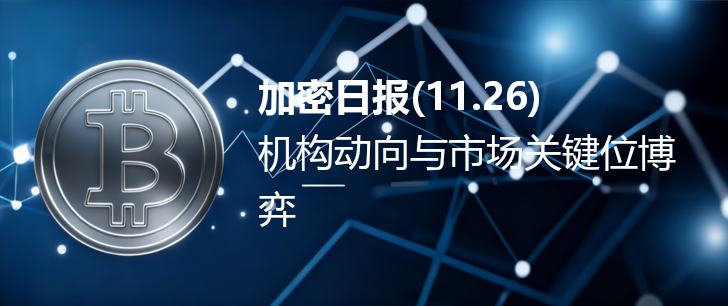
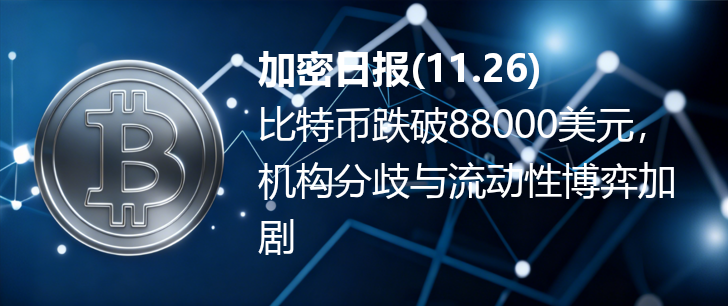
daily_news

Changed region(s): [[0.3324, 0.1471, 0.9368, 0.8529]]

diff --git a/files/latest_summary.md b/files/latest_summary.md
@@ -1,61 +1,62 @@
-### 一、比特币市场动态与机构行为  
+### 一、比特币价格波动及宏观影响  
 **总结**：  
-1. MicroStrategy暂停比特币购买，引发市场对机构信心的担忧，其11月增持量较去年同期大幅下降。  
-2. 港股上市公司新火科技启动不超过500万美元的比特币购买计划，首阶段已完成24.29枚比特币收购。  
-3. 分析指出市场关注比特币国库（DAT）可能存在的泡沫风险，机构资金动向成为市场焦点。  
+1. 比特币因现货ETF连续四周净流出（11月累计150亿美元）、美联储12月降息预期放缓及美股科技股抛售（纳斯达克跌1.5%）等宏观因素，价格跌破88000美元关键关口，日内涨幅收窄至1.58%。  
+2. 市场担忧短期反弹乏力，若跌破85000美元支撑，下行风险加剧，需关注美联储政策信号及ETF资金流向。  
 
 **参考**：  
-- [MicroStrategy停购BTC，市场慌了？ | Bitget 资讯](https://www.bitget.com/zh-CN/news/detail/12560605082025)  
-- [新火科技启动不超500 万美元比特币购置计划- ChainCatcher](https://www.chaincatcher.com/article/2223773)  
-- [即将到来的比特币国库泡沫 - CoinDesk](https://www.coindesk.com/zh/opinion/2025/11/21/the-coming-bitcoin-treasury-bubble)  
+- [比特币闪崩跌破88000美元：ETF流出与美联储政策压力](https://www.fx168news.com/article/%E6%AF%94%E7%89%B9%E5%B8%81-969413)  
 
 
-### 二、比特币价格分析与关键点位  
+### 二、机构动向与市场信心  
 **总结**：  
-1. 比特币在经历剧烈波动后稳定在8万美元中段，市场接近流动性集中区域。  
-2. 关键流动性区域包括90,000美元至92,000美元（空头平仓集中）、86,000美元至87,000美元（短期多空博弈）及8.3万美元下方（深度流动性陷阱）。  
-3. 若守住8万美元中段并突破9万美元，可能引发空头回补；跌破8.3万美元或加剧抛售。  
+1. MicroStrategy暂停比特币购买，引发市场对机构信心的担忧，其股票下跌3%，商业模式面临“融资能力减弱-购买能力受限”的负反馈循环风险。  
+2. 美国比特币ETF和以太坊ETF出现资金流入，10只比特币ETF净流入807枚BTC，9只以太坊ETF净流入35725枚ETH，贝莱德等机构持续增持。  
+3. 港股上市公司新火科技启动500万美元比特币购买计划，首阶段已购入24.29枚BTC，平均买入价82338美元。  
 
 **参考**：  
-- [三个至关重要的比特币(BTC) 价格水平](https://m.528btc.com/news/129349325.html)  
+- [MicroStrategy停购BTC，市场慌了？](https://www.bitget.com/zh-CN/news/detail/12560605082025)  
+- [今日美国比特币ETF净流入807枚BTC，以太坊ETF净流入35725枚ETH](https://www.odaily.news/zh-CN/newsflash/458260)  
+- [新火科技启动500万美元比特币购买计划，已完成首轮24枚BTC收购](https://m.techflowpost.com/newsletter/detail_106527.html)  
 
 
-### 三、交易所动态  
+### 三、技术面分析与市场关键水平  
 **总结**：  
-1. 新加坡交易所（SGX）推出比特币和以太坊永续期货合约，首日交易量合计接近2000手，名义交易价值约3500万美元，由八家清算机构支持。  
-2. 该合约的上线提升了加密衍生品市场的流动性，为投资者提供新的交易渠道。  
+1. 比特币存在三个关键流动性区域：90,000-92,000美元（空头平仓集中区，上涨易引发连锁挤压）、86,000-87,000美元（短期多空博弈混合区）及80,000美元中段（深度支撑位，多头需守住）。  
+2. 价格在82,000美元至88,000美元区间波动，跌破86,000美元可能触发深度流动性陷阱，需警惕杠杆清算加剧波动性。  
 
 **参考**：  
-- [新加坡交易所BTC 和ETH 永续期货上市首日成交量达3500 万美元 - MarsBit](https://m.marsbit.co/flash/20251125222401312513.html)  
-- [新加坡交易所（SGX）比特币和以太坊永续合约强势亮相，交易量达3500万美元 - CoinDesk](https://www.coindesk.com/zh/markets/2025/11/25/sgx-s-bitcoin-and-ethereum-perpetual-futures-debut-strong-with-usd35-million-volume)  
+- [三个至关重要的比特币价格水平](https://m.528btc.com/news/129349325.html)  
 
 
-### 四、传统金融机构进入加密市场  
+### 四、交易所动态  
 **总结**：  
-1. 西班牙银行Renta 4 Banco获得西班牙国家证券市场委员会（CNMV）颁发的MiCA许可证，成为该国第四家可合法买卖、托管和转移加密资产的银行。  
-2. 此前BBVA、Cecabank、Openbank已通过授权，欧盟银行通过MiCA欧洲通行证在西班牙运营加密服务，推动传统金融合规入场。  
+新加坡交易所（SGX）推出比特币和以太坊永续期货合约，首日交易量合计近2000手，名义交易价值约3500万美元，获八家清算机构支持（如Bright Point International、国泰君安期货等），提升市场流动性。  
 
 **参考**：  
-- [西班牙银行Renta 4 Banco 获得西班牙国家证券市场委员会颁发的MiCA 许可证 - 深潮](https://m.techflowpost.com/newsletter/detail_106450.html)  
+- [新加坡交易所BTC和ETH永续期货上市首日成交量达3500万美元](https://m.marsbit.co/flash/20251125222401312513.html)  
 
 
-### 五、比特币ETF资金流向  
+### 五、监管进展  
 **总结**：  
-1. 11月25日，10只美国比特币ETF净流入807枚BTC，其中灰度流入1711枚BTC；9只以太坊ETF净流入35725枚ETH，贝莱德流入31141枚ETH。  
-2. 5只SOL ETF净流入374028枚SOL，显示机构对多资产加密ETF的配置需求持续存在。  
+西班牙银行Renta 4 Banco获西班牙国家证券市场委员会（CNMV）颁发的MiCA许可证，成为该国第四家可合法买卖、托管和转移加密资产的银行，此前BBVA、Cecabank、Openbank已获授权。  
 
 **参考**：  
-- [今日美国比特币ETF净流入807 枚BTC，以太坊ETF净流入35725 枚ETH - Odaily](https://www.odaily.news/zh-CN/newsflash/458260)  
-- [数据：今日美国比特币ETF 净流入807 枚BTC - 链捕手ChainCatcher](https://www.chaincatcher.com/article/2223783)  
+- [西班牙银行Renta 4 Banco获得西班牙国家证券市场委员会颁发的MiCA许可证](https://m.techflowpost.com/newsletter/detail_106450.html)  
 
 
-### 六、市场情绪与分析预测  
+### 六、市场情绪与山寨币动态  
 **总结**：  
-1. 比特币近期出现反弹迹象，山寨币（如XRP、SUI）领涨，加密相关股票上涨，市场信心逐步恢复。  
-2. 讨论认为当前比特币三个月24%的回撤属于常规修正，而非2025年最大崩盘，历史熊市回撤幅度更大（如2022年约77%）。  
-3. 美洲加密市场表现紧张，需关注宏观经济及机构资金动向对市场情绪的影响。  
+1. 比特币价格从86,000美元附近反弹，山寨币（XRP、SUI等）表现强劲，XRP涨8%、SUI涨11.5%，市场资金从比特币流向高潜力山寨币。  
+2. 加密相关股票上涨，CleanSpark、Cipher Mining等矿业公司涨幅超18%，数字资产基金DAT及Solana相关企业反弹显著，机构信心逐步恢复。  
 
 **参考**：  
-- [CWG Markets外汇:比特币反弹行情初现 - 新浪财经](https://finance.sina.com.cn/money/future/roll/2025-11-25/doc-infyrmiw4021166.shtml)  
-- [现在是2025年比特币最大崩盘？BTC底蕴看起来依然强劲加密货币新闻 - Crypto News](https://cryptonews.com/cn/news/is-this-the-biggest-bitcoin-crash-of-2025-and-historical-performance-doesnt-count-as-a-crash/)  
-- [比特币价格表现出紧张情绪：美洲加密日报 - CoinDesk](https://www.coindesk.com/zh/daybook-us/2025/11/25/still-jittery-crypto-daybook-americas)
+- [CWG Markets外汇:比特币反弹行情初现](https://finance.sina.com.cn/money/future/roll/2025-11-25/doc-infyrmiw4021166.shtml)  
+
+
+### 七、市场观点与长期分析  
+**总结**：  
+1. 比特币近期24%的三个月回撤被认为是常规修正而非“崩盘”，历史上熊市回撤幅度通常达80%，当前24%回撤属于健康调整。  
+2. 比特币具有固定供应、减半预期等长期支撑，机构长期持有意愿仍在，尽管短期面临宏观压力，但市场底蕴强劲，长期价值未变。  
+
+**参考**：  
+- [现在是2025年比特币最大崩盘？BTC底蕴看起来依然强劲](https://cryptonews.com/cn/news/is-this-the-biggest-bitcoin-crash-of-2025-and-historical-performance-doesnt-count-as-a-crash/)

diff --git a/files/latest_summary_cleaned.md b/files/latest_summary_cleaned.md
@@ -1,26 +1,26 @@
-### 一、比特币市场动态与机构行为  
-1. MicroStrategy暂停比特币购买，引发市场对机构信心的担忧，其11月增持量较去年同期大幅下降。  
-2. 港股上市公司新火科技启动不超过500万美元的比特币购买计划，首阶段已完成24.29枚比特币收购。  
-3. 分析指出市场关注比特币国库（DAT）可能存在的泡沫风险，机构资金动向成为市场焦点。  
+### 一、比特币价格波动及宏观影响  
+1. 比特币因现货ETF连续四周净流出（11月累计150亿美元）、美联储12月降息预期放缓及美股科技股抛售（纳斯达克跌1.5%）等宏观因素，价格跌破88000美元关键关口，日内涨幅收窄至1.58%。  
+2. 市场担忧短期反弹乏力，若跌破85000美元支撑，下行风险加剧，需关注美联储政策信号及ETF资金流向。  
 
-### 二、比特币价格分析与关键点位  
-1. 比特币在经历剧烈波动后稳定在8万美元中段，市场接近流动性集中区域。  
-2. 关键流动性区域包括90,000美元至92,000美元（空头平仓集中）、86,000美元至87,000美元（短期多空博弈）及8.3万美元下方（深度流动性陷阱）。  
-3. 若守住8万美元中段并突破9万美元，可能引发空头回补；跌破8.3万美元或加剧抛售。  
+### 二、机构动向与市场信心  
+1. MicroStrategy暂停比特币购买，引发市场对机构信心的担忧，其股票下跌3%，商业模式面临“融资能力减弱-购买能力受限”的负反馈循环风险。  
+2. 美国比特币ETF和以太坊ETF出现资金流入，10只比特币ETF净流入807枚BTC，9只以太坊ETF净流入35725枚ETH，贝莱德等机构持续增持。  
+3. 港股上市公司新火科技启动500万美元比特币购买计划，首阶段已购入24.29枚BTC，平均买入价82338美元。  
 
-### 三、交易所动态  
-1. 新加坡交易所（SGX）推出比特币和以太坊永续期货合约，首日交易量合计接近2000手，名义交易价值约3500万美元，由八家清算机构支持。  
-2. 该合约的上线提升了加密衍生品市场的流动性，为投资者提供新的交易渠道。  
+### 三、技术面分析与市场关键水平  
+1. 比特币存在三个关键流动性区域：90,000-92,000美元（空头平仓集中区，上涨易引发连锁挤压）、86,000-87,000美元（短期多空博弈混合区）及80,000美元中段（深度支撑位，多头需守住）。  
+2. 价格在82,000美元至88,000美元区间波动，跌破86,000美元可能触发深度流动性陷阱，需警惕杠杆清算加剧波动性。  
 
-### 四、传统金融机构进入加密市场  
-1. 西班牙银行Renta 4 Banco获得西班牙国家证券市场委员会（CNMV）颁发的MiCA许可证，成为该国第四家可合法买卖、托管和转移加密资产的银行。  
-2. 此前BBVA、Cecabank、Openbank已通过授权，欧盟银行通过MiCA欧洲通行证在西班牙运营加密服务，推动传统金融合规入场。  
+### 四、交易所动态  
+新加坡交易所（SGX）推出比特币和以太坊永续期货合约，首日交易量合计近2000手，名义交易价值约3500万美元，获八家清算机构支持（如Bright Point International、国泰君安期货等），提升市场流动性。  
 
-### 五、比特币ETF资金流向  
-1. 11月25日，10只美国比特币ETF净流入807枚BTC，其中灰度流入1711枚BTC；9只以太坊ETF净流入35725枚ETH，贝莱德流入31141枚ETH。  
-2. 5只SOL ETF净流入374028枚SOL，显示机构对多资产加密ETF的配置需求持续存在。  
+### 五、监管进展  
+西班牙银行Renta 4 Banco获西班牙国家证券市场委员会（CNMV）颁发的MiCA许可证，成为该国第四家可合法买卖、托管和转移加密资产的银行，此前BBVA、Cecabank、Openbank已获授权。  
 
-### 六、市场情绪与分析预测  
-1. 比特币近期出现反弹迹象，山寨币（如XRP、SUI）领涨，加密相关股票上涨，市场信心逐步恢复。  
-2. 讨论认为当前比特币三个月24%的回撤属于常规修正，而非2025年最大崩盘，历史熊市回撤幅度更大（如2022年约77%）。  
-3. 美洲加密市场表现紧张，需关注宏观经济及机构资金动向对市场情绪的影响。  
+### 六、市场情绪与山寨币动态  
+1. 比特币价格从86,000美元附近反弹，山寨币（XRP、SUI等）表现强劲，XRP涨8%、SUI涨11.5%，市场资金从比特币流向高潜力山寨币。  
+2. 加密相关股票上涨，CleanSpark、Cipher Mining等矿业公司涨幅超18%，数字资产基金DAT及Solana相关企业反弹显著，机构信心逐步恢复。  
+
+### 七、市场观点与长期分析  
+1. 比特币近期24%的三个月回撤被认为是常规修正而非“崩盘”，历史上熊市回撤幅度通常达80%，当前24%回撤属于健康调整。  
+2. 比特币具有固定供应、减半预期等长期支撑，机构长期持有意愿仍在，尽管短期面临宏观压力，但市场底蕴强劲，长期价值未变。  
